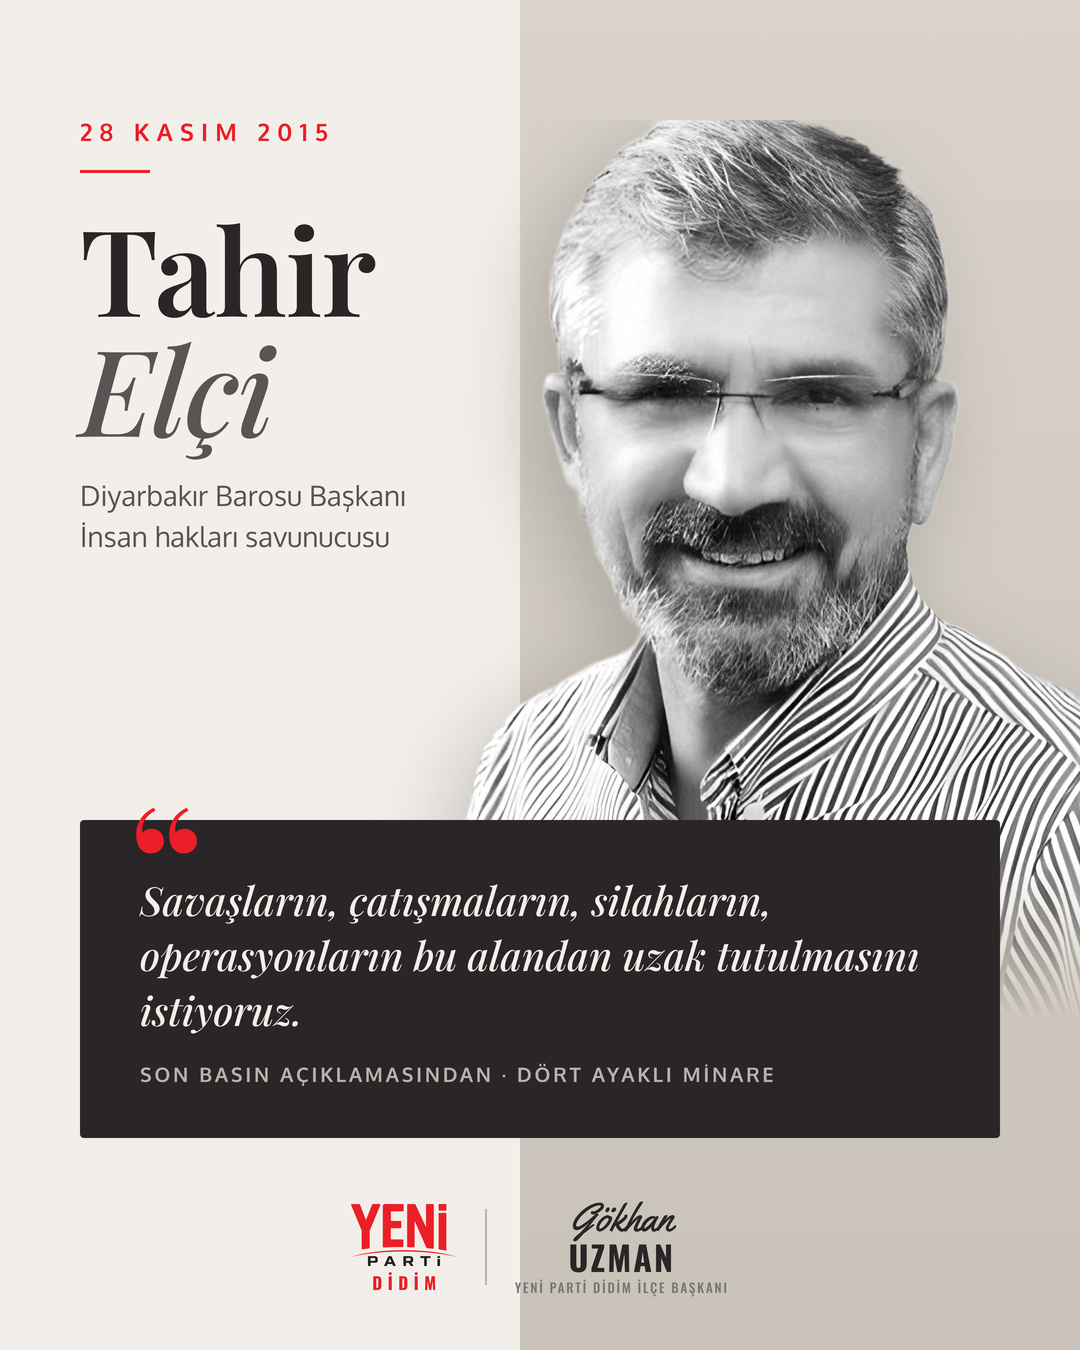
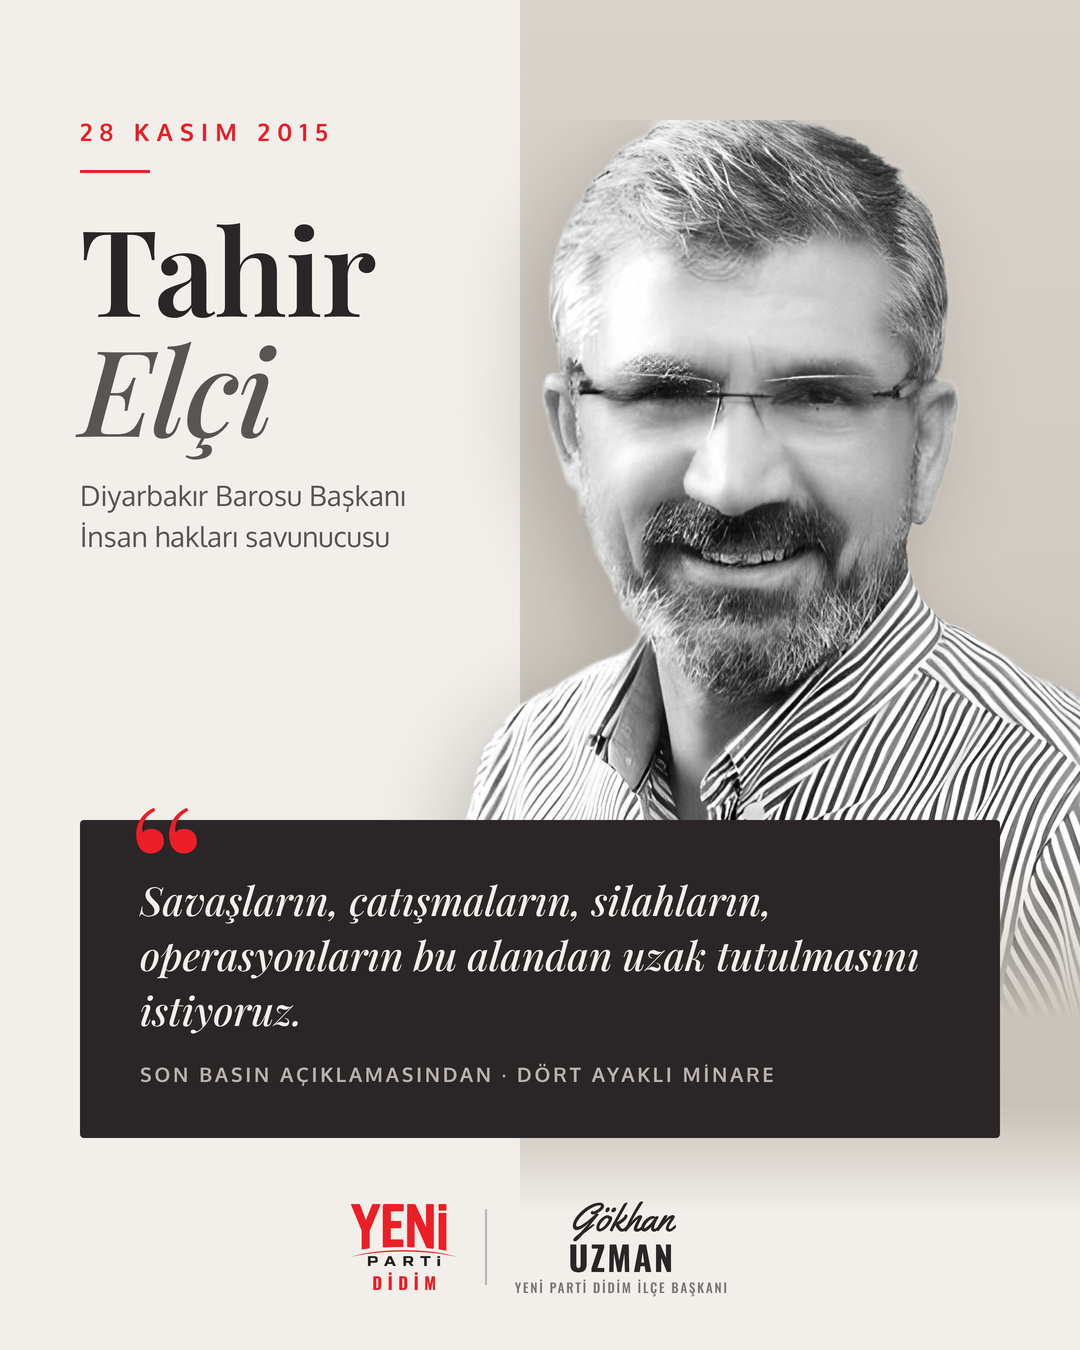
Tahir Elçi: imza altındaki renk geçişi düzeltildi
Claude-Session: https://claude.ai/code/session_01SatttGbgBLoCnk9KGLypWv

Changed region(s): [[0.4583, 0.84, 1.0, 1.0]]

diff --git a/tasarim/kisisel/tahir-elci/post.html b/tasarim/kisisel/tahir-elci/post.html
@@ -9,7 +9,7 @@
 @font-face{font-family:O7;src:url(../../fontlar-gecici/Oswald-700.ttf)}
 @font-face{font-family:O5;src:url(../../fontlar-gecici/Oswald-500.ttf)}
 html,body{margin:0;width:1080px;height:1350px;overflow:hidden;background:#F2EFEA;color:#2A2627;font-family:Ox}
-.dk{position:absolute;right:0;top:0;width:560px;height:1350px;background:linear-gradient(180deg,#D9D3CB,#C9C2B8)}
+.dk{position:absolute;right:0;top:0;width:560px;height:1350px;background:linear-gradient(180deg,#D9D3CB 0,#C9C2B8 82%,#F2EFEA 90%)}
 .ft{position:absolute;right:-150px;top:120px;width:900px;filter:drop-shadow(-20px 20px 40px rgba(0,0,0,.18));-webkit-mask-image:linear-gradient(0deg,transparent 0,#000 18%)}
 .sol{position:absolute;left:80px;top:120px;width:520px}
 .tr{font:700 24px/1 Ox;letter-spacing:.3em;color:#EC1E27}
